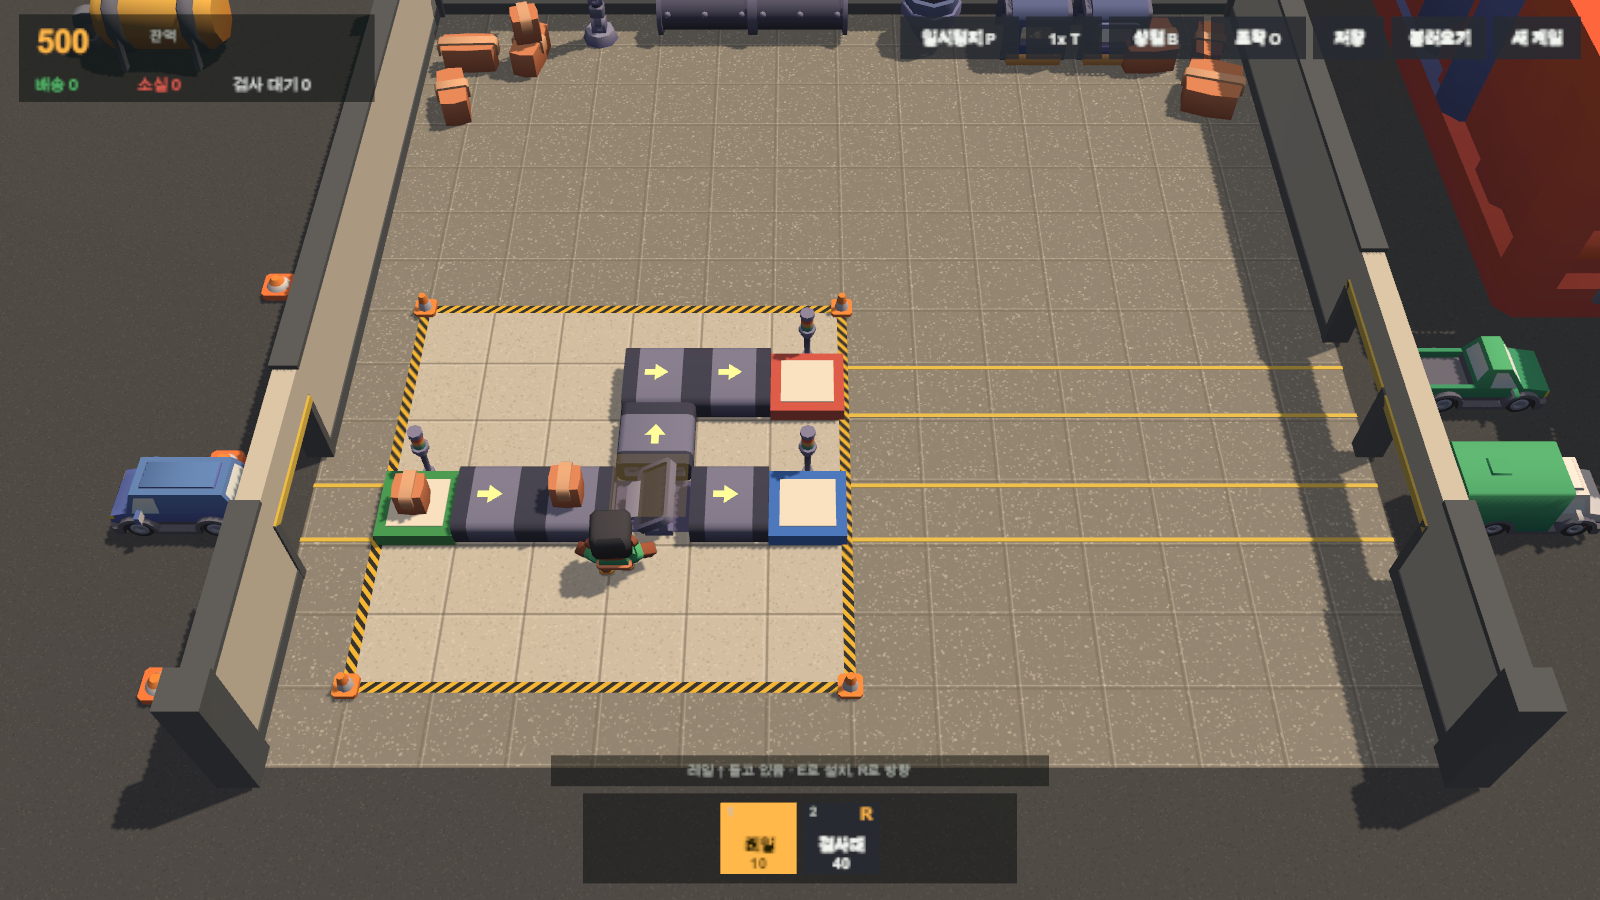
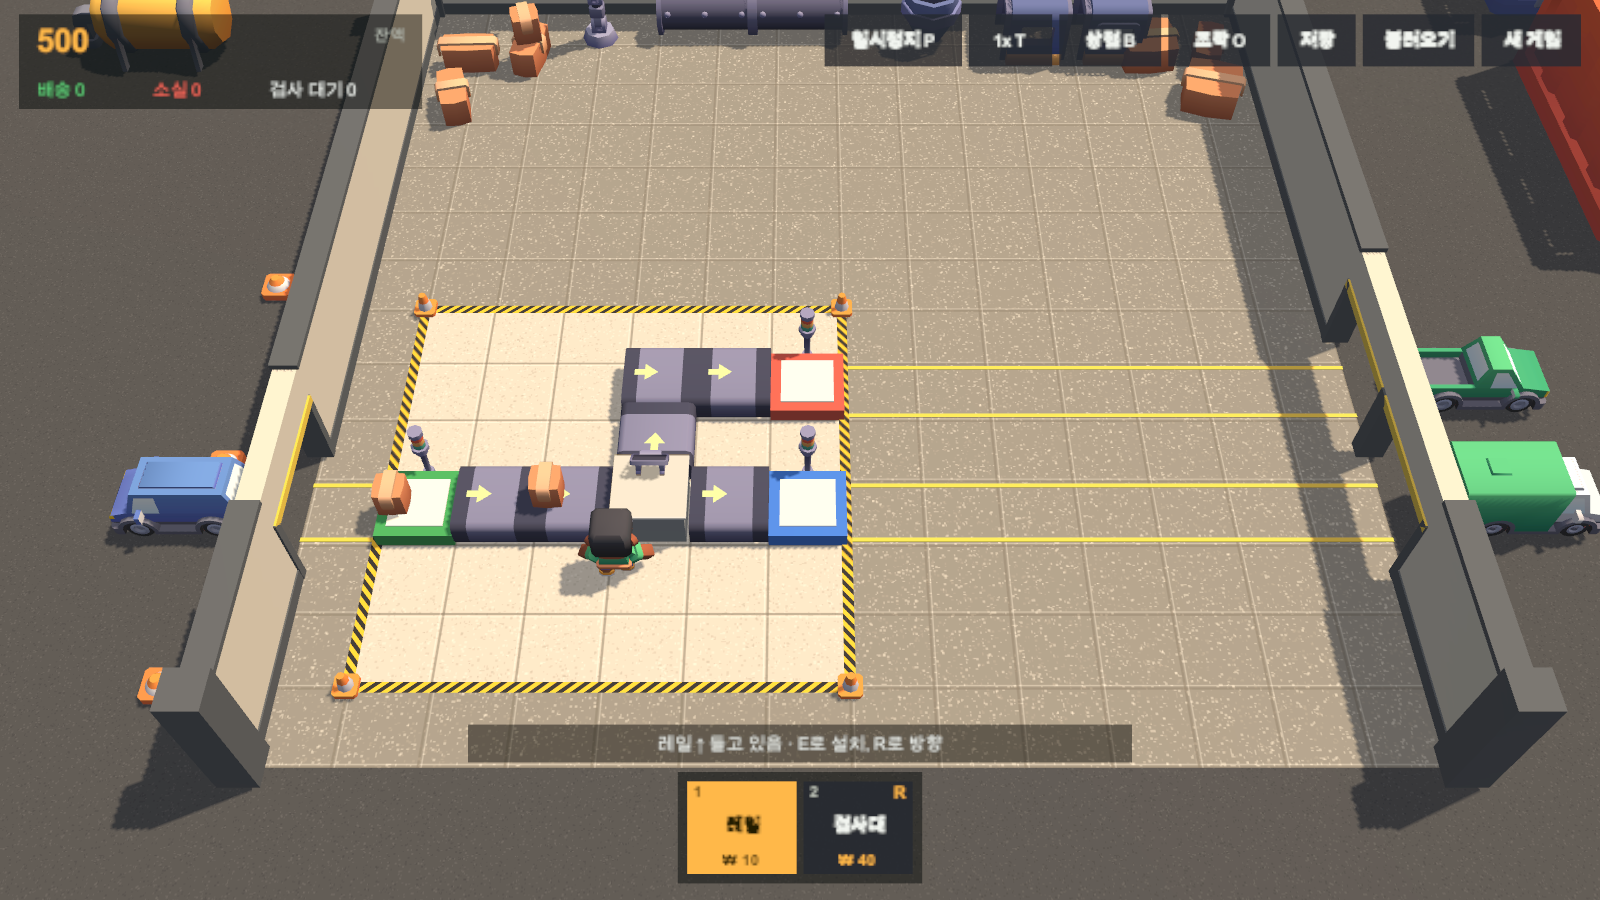
fix(game): brighter lighting, smaller yard props, larger HUD text, steel table view
- Sun 1.6, trilight sky/equator +40%
- Shipping containers (the props looming over the east wall, ~4x4x9 m at
  scale 3) shrunk to 1.6 and moved 4+ m off the wall; far buildings at
  scale 3.2, z 17.5, x -9/2/11
- HUD: status/counters/toast 16, top-right buttons 15 at 44 px height,
  hotbar slot 92x78 with name 15 and price on its own line, hotbar fits
  visible slots; UiKit.DefaultFont loads Resources/Fonts/NotoSansKR-Regular
  when present, else LegacyRuntime
- Table cell: steel body + light top at surface height 0.6 + small screen
- FrameLot uses Screen (or target RenderTexture) aspect; drop unused arrow
  catalog key and the playAutomatically line
- Screenshot harness logs yard prop bounds; renders regenerated

diff --git a/Assets/Scripts/Game/HudController.cs b/Assets/Scripts/Game/HudController.cs
@@ -17,6 +17,8 @@ namespace ParcelFactory.Game
         private RectTransform hotbar, prompt, toast, help, touchPad, touchButtons;
         private readonly List<Button> slotButtons = new List<Button>();
         private readonly List<Text> slotArrows = new List<Text>();
+        private readonly List<Text> slotPrices = new List<Text>();
+        private readonly List<Text> slotKeys = new List<Text>();
         private float toastUntil;
         private InputController input;
 
@@ -52,49 +54,61 @@ namespace ParcelFactory.Game
 
         private void BuildTopLeft()
         {
-            var box = UiKit.PanelBox("TopLeft", Root, new Vector2(0f, 1f), new Vector2(0f, 1f), new Vector2(0f, 1f), new Vector2(16f, -12f), new Vector2(300f, 74f));
+            var box = UiKit.PanelBox("TopLeft", Root, new Vector2(0f, 1f), new Vector2(0f, 1f), new Vector2(0f, 1f), new Vector2(16f, -12f), new Vector2(340f, 80f));
             money = UiKit.Label("Money", box.transform, "100", 28, UiKit.Accent, TextAnchor.UpperLeft, FontStyle.Bold);
             money.rectTransform.offsetMin = new Vector2(14f, 30f); money.rectTransform.offsetMax = new Vector2(-14f, -6f);
-            var lbl = UiKit.Label("MoneyLbl", box.transform, "잔액", 12, UiKit.Muted, TextAnchor.UpperLeft);
-            lbl.rectTransform.offsetMin = new Vector2(110f, 36f); lbl.rectTransform.offsetMax = new Vector2(-14f, -14f);
-            delivered = UiKit.Label("Delivered", box.transform, "배송 0", 13, UiKit.Good, TextAnchor.LowerLeft);
-            delivered.rectTransform.offsetMin = new Vector2(14f, 8f); delivered.rectTransform.offsetMax = new Vector2(-200f, -40f);
-            lost = UiKit.Label("Lost", box.transform, "소실 0", 13, UiKit.Bad, TextAnchor.LowerLeft);
-            lost.rectTransform.offsetMin = new Vector2(100f, 8f); lost.rectTransform.offsetMax = new Vector2(-120f, -40f);
-            waiting = UiKit.Label("Waiting", box.transform, "검사 대기 0", 13, UiKit.Fg, TextAnchor.LowerLeft);
-            waiting.rectTransform.offsetMin = new Vector2(180f, 8f); waiting.rectTransform.offsetMax = new Vector2(-10f, -40f);
+            var lbl = UiKit.Label("MoneyLbl", box.transform, "잔액", 14, UiKit.Muted, TextAnchor.UpperRight);
+            lbl.rectTransform.offsetMin = new Vector2(14f, 40f); lbl.rectTransform.offsetMax = new Vector2(-14f, -12f);
+            delivered = UiKit.Label("Delivered", box.transform, "배송 0", 16, UiKit.Good, TextAnchor.LowerLeft);
+            delivered.rectTransform.offsetMin = new Vector2(14f, 8f); delivered.rectTransform.offsetMax = new Vector2(-226f, -44f);
+            lost = UiKit.Label("Lost", box.transform, "소실 0", 16, UiKit.Bad, TextAnchor.LowerLeft);
+            lost.rectTransform.offsetMin = new Vector2(112f, 8f); lost.rectTransform.offsetMax = new Vector2(-128f, -44f);
+            waiting = UiKit.Label("Waiting", box.transform, "검사 대기 0", 16, UiKit.Fg, TextAnchor.LowerLeft);
+            waiting.rectTransform.offsetMin = new Vector2(210f, 8f); waiting.rectTransform.offsetMax = new Vector2(-8f, -44f);
         }
+
+        /// <summary>상단 버튼 높이. 터치 기준 최소 44px를 항상 지킨다.</summary>
+        private const float TopButtonHeight = 44f;
+        private const float SlotW = 92f, SlotH = 78f;
 
         private void BuildTopRight()
         {
-            var row = UiKit.Rect("TopRight", Root, new Vector2(1f, 1f), new Vector2(1f, 1f), new Vector2(1f, 1f), new Vector2(-16f, -12f), new Vector2(660f, 40f));
+            var row = UiKit.Rect("TopRight", Root, new Vector2(1f, 1f), new Vector2(1f, 1f), new Vector2(1f, 1f), new Vector2(-16f, -12f), new Vector2(720f, TopButtonHeight));
             UiKit.Row(row, 6f, new RectOffset(0, 0, 0, 0)).childAlignment = TextAnchor.MiddleRight;
             var boot = GameBootstrap.Instance;
-            pauseBtn = UiKit.Button("Pause", row, "일시정지 P", new Vector2(100f, 36f), () => boot.Session.Paused = !boot.Session.Paused);
-            speedBtn = UiKit.Button("Speed", row, "1x T", new Vector2(64f, 36f), () => boot.Session.Speed = boot.Session.Speed >= 2f ? 1f : 2f);
-            shopBtn = UiKit.Button("Shop", row, "상점 B", new Vector2(80f, 36f), () => { if (input.UiBlocksInput && !boot.Panels.ShopIsOnlyOpen) return; input.RequestShop(); });
-            helpBtn = UiKit.Button("Help", row, "조작 O", new Vector2(80f, 36f), () => SetHelp(!help.gameObject.activeSelf));
-            var saveBtn = UiKit.Button("Save", row, "저장", new Vector2(60f, 36f), () => Toast(SaveFile.TrySave(boot.Session, out var e1) ? "저장했습니다" : e1));
-            var loadBtn = UiKit.Button("Load", row, "불러오기", new Vector2(80f, 36f), () => { if (SaveFile.TryLoad(out var s2, out var e2)) { boot.ReplaceSession(s2); Toast("불러왔습니다"); } else Toast(e2); });
-            var newBtn = UiKit.Button("New", row, "새 게임", new Vector2(74f, 36f), () => { boot.StartNewGame(); Toast("새 게임"); });
-            foreach (var b in new[] { pauseBtn, speedBtn, shopBtn, helpBtn, saveBtn, loadBtn, newBtn }) UiKit.Size(b, b.GetComponent<RectTransform>().sizeDelta.x, 36f);
+            const float h = TopButtonHeight;
+            const int fs = 15;
+            pauseBtn = UiKit.Button("Pause", row, "일시정지 P", new Vector2(116f, h), () => boot.Session.Paused = !boot.Session.Paused, fontSize: fs);
+            speedBtn = UiKit.Button("Speed", row, "1x T", new Vector2(70f, h), () => boot.Session.Speed = boot.Session.Speed >= 2f ? 1f : 2f, fontSize: fs);
+            shopBtn = UiKit.Button("Shop", row, "상점 B", new Vector2(86f, h), () => { if (input.UiBlocksInput && !boot.Panels.ShopIsOnlyOpen) return; input.RequestShop(); }, fontSize: fs);
+            helpBtn = UiKit.Button("Help", row, "조작 O", new Vector2(86f, h), () => SetHelp(!help.gameObject.activeSelf), fontSize: fs);
+            var saveBtn = UiKit.Button("Save", row, "저장", new Vector2(66f, h), () => Toast(SaveFile.TrySave(boot.Session, out var e1) ? "저장했습니다" : e1), fontSize: fs);
+            var loadBtn = UiKit.Button("Load", row, "불러오기", new Vector2(94f, h), () => { if (SaveFile.TryLoad(out var s2, out var e2)) { boot.ReplaceSession(s2); Toast("불러왔습니다"); } else Toast(e2); }, fontSize: fs);
+            var newBtn = UiKit.Button("New", row, "새 게임", new Vector2(84f, h), () => { boot.StartNewGame(); Toast("새 게임"); }, fontSize: fs);
+            foreach (var b in new[] { pauseBtn, speedBtn, shopBtn, helpBtn, saveBtn, loadBtn, newBtn }) UiKit.Size(b, b.GetComponent<RectTransform>().sizeDelta.x, h);
         }
 
         private void BuildHotbar()
         {
-            hotbar = UiKit.PanelBox("Hotbar", Root, new Vector2(0.5f, 0f), new Vector2(0.5f, 0f), new Vector2(0.5f, 0f), new Vector2(0f, 14f), new Vector2(5 * 70f + 16f, 76f)).rectTransform;
+            hotbar = UiKit.PanelBox("Hotbar", Root, new Vector2(0.5f, 0f), new Vector2(0.5f, 0f), new Vector2(0.5f, 0f), new Vector2(0f, 14f), new Vector2(5 * (SlotW + 6f) - 6f + 16f, SlotH + 16f)).rectTransform;
             UiKit.Row(hotbar, 6f, new RectOffset(8, 8, 8, 8)).childAlignment = TextAnchor.MiddleCenter;
             for (int i = 0; i < 5; i++)
             {
                 int idx = i;
-                var b = UiKit.Button("Slot" + (i + 1), hotbar, "", new Vector2(64f, 60f), () => { if (input.UiBlocksInput) return; input.SelectSlot(idx); }, new Color(0f, 0f, 0f, 0.35f));
-                UiKit.Size(b, 64f, 60f);
-                var key = UiKit.Label("Key", b.transform, (i + 1).ToString(), 11, UiKit.Muted, TextAnchor.UpperLeft, FontStyle.Bold);
-                key.rectTransform.offsetMin = new Vector2(5f, 0f); key.rectTransform.offsetMax = new Vector2(0f, -3f);
+                var b = UiKit.Button("Slot" + (i + 1), hotbar, "", new Vector2(SlotW, SlotH), () => { if (input.UiBlocksInput) return; input.SelectSlot(idx); }, new Color(0f, 0f, 0f, 0.35f), fontSize: 15);
+                UiKit.Size(b, SlotW, SlotH);
+                // 이름(15)은 가운데, 가격은 그 아래 자기 줄, 키 번호·방향은 위쪽 모서리.
+                var name = b.GetComponentInChildren<Text>();
+                name.alignment = TextAnchor.MiddleCenter;
+                name.horizontalOverflow = HorizontalWrapMode.Overflow;
+                name.rectTransform.offsetMin = new Vector2(2f, 22f); name.rectTransform.offsetMax = new Vector2(-2f, -18f);
+                var price = UiKit.Label("Price", b.transform, "", 13, UiKit.Muted, TextAnchor.LowerCenter, FontStyle.Bold);
+                price.rectTransform.offsetMin = new Vector2(2f, 5f); price.rectTransform.offsetMax = new Vector2(-2f, -54f);
+                var key = UiKit.Label("Key", b.transform, (i + 1).ToString(), 13, UiKit.Muted, TextAnchor.UpperLeft, FontStyle.Bold);
+                key.rectTransform.offsetMin = new Vector2(6f, 0f); key.rectTransform.offsetMax = new Vector2(0f, -3f);
                 var arrow = UiKit.Label("Arrow", b.transform, "", 16, UiKit.Accent, TextAnchor.UpperRight, FontStyle.Bold);
-                arrow.rectTransform.offsetMin = new Vector2(0f, 0f); arrow.rectTransform.offsetMax = new Vector2(-5f, -2f);
-                b.GetComponentInChildren<Text>().alignment = TextAnchor.LowerCenter;
-                slotButtons.Add(b); slotArrows.Add(arrow);
+                arrow.rectTransform.offsetMin = new Vector2(0f, 0f); arrow.rectTransform.offsetMax = new Vector2(-6f, -2f);
+                slotButtons.Add(b); slotArrows.Add(arrow); slotPrices.Add(price); slotKeys.Add(key);
             }
         }
 
@@ -107,14 +121,14 @@ namespace ParcelFactory.Game
 
         private void BuildStatus()
         {
-            var box = UiKit.PanelBox("Status", Root, new Vector2(0.5f, 0f), new Vector2(0.5f, 0f), new Vector2(0.5f, 0f), new Vector2(0f, 96f), new Vector2(420f, 26f));
-            workerText = UiKit.Label("Text", box.transform, "", 12, UiKit.Muted, TextAnchor.MiddleCenter);
+            var box = UiKit.PanelBox("Status", Root, new Vector2(0.5f, 0f), new Vector2(0.5f, 0f), new Vector2(0.5f, 0f), new Vector2(0f, SlotH + 16f + 14f + 8f), new Vector2(560f, 32f));
+            workerText = UiKit.Label("Text", box.transform, "", 16, UiKit.Fg, TextAnchor.MiddleCenter);
         }
 
         private void BuildToast()
         {
-            toast = UiKit.PanelBox("Toast", Root, new Vector2(0.5f, 1f), new Vector2(0.5f, 1f), new Vector2(0.5f, 1f), new Vector2(0f, -110f), new Vector2(360f, 34f), UiKit.Panel2).rectTransform;
-            toastText = UiKit.Label("Text", toast, "", 14, UiKit.Fg, TextAnchor.MiddleCenter);
+            toast = UiKit.PanelBox("Toast", Root, new Vector2(0.5f, 1f), new Vector2(0.5f, 1f), new Vector2(0.5f, 1f), new Vector2(0f, -110f), new Vector2(440f, 40f), UiKit.Panel2).rectTransform;
+            toastText = UiKit.Label("Text", toast, "", 16, UiKit.Fg, TextAnchor.MiddleCenter);
             toast.gameObject.SetActive(false);
         }
 
@@ -183,15 +197,20 @@ namespace ParcelFactory.Game
         public void RefreshHotbar()
         {
             var slots = input.AvailableSlots();
+            int shown = Mathf.Clamp(slots.Count, 1, slotButtons.Count);
+            hotbar.sizeDelta = new Vector2(shown * (SlotW + 6f) - 6f + 16f, SlotH + 16f); // 보이는 칸 수에 맞춘다
             for (int i = 0; i < slotButtons.Count; i++)
             {
                 bool has = i < slots.Count;
                 slotButtons[i].gameObject.SetActive(has);
                 if (!has) continue;
                 var type = slots[i];
-                slotButtons[i].GetComponentInChildren<Text>().text = Name(type) + "\n" + BuildingCosts.Cost(type);
+                slotButtons[i].GetComponentInChildren<Text>().text = Name(type);
+                slotPrices[i].text = "₩ " + BuildingCosts.Cost(type);
                 bool on = input.SelectedSlot == i && input.SelectedTool.HasValue;
                 UiKit.SetButtonLook(slotButtons[i], on);
+                slotPrices[i].color = on ? UiKit.AccentFg : UiKit.Accent;
+                slotKeys[i].color = on ? UiKit.AccentFg : UiKit.Muted;
                 slotArrows[i].text = on ? Arrow(input.SelectedTool.Value.Direction) : (input.OwnedDirections(type).Count > 1 ? "R" : Arrow(input.OwnedDirections(type)[0]));
             }
         }

diff --git a/Assets/Scripts/Game/WorldBuilder.cs b/Assets/Scripts/Game/WorldBuilder.cs
@@ -129,19 +129,19 @@ namespace ParcelFactory.Game
             var sun = sunGo.AddComponent<Light>();
             sun.type = LightType.Directional;
             sun.color = Hex(0xFFE6C2);
-            sun.intensity = 1.05f;
+            sun.intensity = 1.6f;
             sun.shadows = LightShadows.Soft;
             sun.shadowStrength = 0.85f;
             // 프로토타입 태양 위치 (−9, 17, 4)를 Unity x로 뒤집은 (9, 17, 4)에서 원점을 비춘다.
             sunGo.transform.rotation = Quaternion.LookRotation(-new Vector3(9f, 17f, 4f).normalized, Vector3.up);
 
-            // 반구광 근사: 하늘 #DFE7F2, 지면 #6B655C, 세기 0.55
-            const float hemi = 0.55f;
+            // 반구광 근사: 하늘 #DFE7F2, 지면 #6B655C, 세기 0.55. URP가 three.js보다 어두워 하늘·적도는 40% 올린다.
+            const float hemi = 0.55f, lift = 1.4f;
             var sky = Hex(0xDFE7F2) * hemi;
             var gnd = Hex(0x6B655C) * hemi;
             RenderSettings.ambientMode = AmbientMode.Trilight;
-            RenderSettings.ambientSkyColor = sky;
-            RenderSettings.ambientEquatorColor = Color.Lerp(sky, gnd, 0.5f);
+            RenderSettings.ambientSkyColor = sky * lift;
+            RenderSettings.ambientEquatorColor = Color.Lerp(sky, gnd, 0.5f) * lift;
             RenderSettings.ambientGroundColor = gnd;
             RenderSettings.fog = true;
             RenderSettings.fogMode = FogMode.Linear;
@@ -258,15 +258,17 @@ namespace ParcelFactory.Game
         private void BuildYard()
         {
             var yard = Group("Yard");
-            Spawn("shipping-container-a", new Vector3(11.5f, 0f, 4.0f), Quaternion.identity, 3.0f, yard);
-            Spawn("shipping-container-b", new Vector3(11.5f, 0f, 7.5f), Quaternion.identity, 3.0f, yard);
-            Spawn("shipping-container-c", new Vector3(13.2f, 0f, 1.2f), Quaternion.Euler(0f, 5f, 0f), 3.0f, yard);
+            // 컨테이너 FBX는 1배에서 약 1.4×1.3×3.0m다. 1.6배(≈2.2×2.1×4.9m)로 두고 동쪽 벽(+7)에서 4m 이상 띄운다.
+            Spawn("shipping-container-a", new Vector3(12.5f, 0f, 3.5f), Quaternion.identity, 1.6f, yard);
+            Spawn("shipping-container-b", new Vector3(12.5f, 0f, 9.0f), Quaternion.identity, 1.6f, yard);
+            Spawn("shipping-container-c", new Vector3(15.0f, 0f, 0.5f), Quaternion.Euler(0f, 5f, 0f), 1.6f, yard);
             Spawn("water-tower", new Vector3(-10.5f, 0f, 9.5f), Quaternion.identity, 2.6f, yard);
             Spawn("detail-tank", new Vector3(-11.5f, 0f, 6.0f), Quaternion.identity, 3.0f, yard);
             Spawn("chimney-medium", new Vector3(9.0f, 0f, 10.5f), Quaternion.identity, 2.6f, yard);
-            Spawn("building-a", new Vector3(2.0f, 0f, 13.5f), Quaternion.identity, 5f, yard);
-            Spawn("building-c", new Vector3(-8.0f, 0f, 14.2f), Quaternion.identity, 5f, yard);
-            Spawn("building-h", new Vector3(10.0f, 0f, 14.0f), Quaternion.identity, 5f, yard);
+            // 멀리 보이는 공장 건물 실루엣: 건물 벽(±7)에서 충분히 떨어뜨린다.
+            Spawn("building-c", new Vector3(-9.0f, 0f, 17.5f), Quaternion.identity, 3.2f, yard);
+            Spawn("building-a", new Vector3(2.0f, 0f, 17.5f), Quaternion.identity, 3.2f, yard);
+            Spawn("building-h", new Vector3(11.0f, 0f, 17.5f), Quaternion.identity, 3.2f, yard);
             foreach (var z in new[] { -6f, -2.8f, 0.4f })
                 Spawn("cone-flat", new Vector3(-8.2f, 0f, z), Quaternion.identity, 0.9f, yard);
         }
@@ -340,7 +342,10 @@ namespace ParcelFactory.Game
             framedW = Screen.width;
             framedH = Screen.height;
             float t = Mathf.Tan(CameraFov * 0.5f * Mathf.Deg2Rad);
-            float a = MainCamera.aspect > 0.01f ? MainCamera.aspect : 1f;
+            // 화면 비율. 카메라가 RenderTexture에 그리는 동안(스크린샷 하네스)에는 그 텍스처 비율을 쓴다.
+            var rt = MainCamera.targetTexture;
+            float a = rt != null ? (float)rt.width / rt.height : (float)Screen.width / Mathf.Max(1, Screen.height);
+            if (a < 0.01f) a = 1f;
             float hw = n / 2f + 5f, hv = n / 2f + 2.8f;
             float dist = Mathf.Max(hw / (t * a), hv / t) * 1.04f;
             var c = Grid3D.TileF((n - 1) / 2f, (n - 1) / 2f);

diff --git a/Assets/Scripts/Game/CellViews.cs b/Assets/Scripts/Game/CellViews.cs
@@ -117,6 +117,18 @@ namespace ParcelFactory.Game
             return m;
         }
 
+        private static GameObject Box(string name, Transform parent, Vector3 localPos, Vector3 size, Material mat)
+        {
+            var b = GameObject.CreatePrimitive(PrimitiveType.Cube);
+            b.name = name;
+            Destroy(b.GetComponent<Collider>());
+            b.transform.SetParent(parent, false);
+            b.transform.localPosition = localPos;
+            b.transform.localScale = size;
+            b.GetComponent<Renderer>().sharedMaterial = mat;
+            return b;
+        }
+
         private GameObject Make(Cell c)
         {
             if (!c.IsBuilding) return null;
@@ -163,9 +175,16 @@ namespace ParcelFactory.Game
                     Model("conveyor-junction-t", go.transform, Vector3.zero, facing, 1f);
                     break;
                 case CellType.Table:
-                    Model("floor", go.transform, Vector3.zero, Quaternion.identity, 1f);
-                    Model("screen-panel-flat", go.transform, Vector3.zero, facing, 0.8f);
+                {
+                    // 강철 작업대: 몸체 0.9×0.56×0.9 + 밝은 상판 0.96×0.04×0.96, 윗면 = 택배 표면 높이(0.6).
+                    float top = PackageViews.SurfaceHeight(CellType.Table);
+                    Box("TableBody", go.transform, new Vector3(0f, (top - 0.04f) / 2f, 0f), new Vector3(0.9f, top - 0.04f, 0.9f), MaterialLibrary.Lit(new Color(0x8E / 255f, 0x94 / 255f, 0x9B / 255f), 0.3f));
+                    Box("TableTop", go.transform, new Vector3(0f, top - 0.02f, 0f), new Vector3(0.96f, 0.04f, 0.96f), MaterialLibrary.Lit(new Color(0xC9 / 255f, 0xCD / 255f, 0xD2 / 255f), 0.35f));
+                    // 검사 화면: 상판 뒤쪽(북쪽) 가장자리에 카메라를 향해 세운다. 택배를 가리지 않도록 작게.
+                    var panel = Model("screen-panel-flat", go.transform, new Vector3(0f, top, 0.3f), Quaternion.Euler(0f, 180f, 0f), 0.4f);
+                    panel.name = "TableScreen";
                     break;
+                }
             }
             return go;
         }

diff --git a/Assets/Editor/CatalogBuilder.cs b/Assets/Editor/CatalogBuilder.cs
@@ -14,7 +14,7 @@ namespace ParcelFactory.EditorTools
         private const string Root = "Assets/ThirdParty/Kenney/";
         private static readonly (string kit, string[] names)[] Wanted =
         {
-            ("factory-kit", new[] { "conveyor", "conveyor-stripe", "conveyor-corner", "conveyor-junction-t", "scanner-low", "box-small", "box-large", "box-wide", "box-long", "screen-panel-flat", "floor", "floor-large", "structure-wall", "structure-window-wide", "structure-doorway-wide", "warning-traffic", "arrow", "cone", "machine", "machine-window", "hopper-round", "pipe-large-long", "robot-arm-a", "screen-hanging-wide", "indicator-special-area" }),
+            ("factory-kit", new[] { "conveyor", "conveyor-stripe", "conveyor-corner", "conveyor-junction-t", "scanner-low", "box-small", "box-large", "box-wide", "box-long", "screen-panel-flat", "floor", "floor-large", "structure-wall", "structure-window-wide", "structure-doorway-wide", "warning-traffic", "cone", "machine", "machine-window", "hopper-round", "pipe-large-long", "robot-arm-a", "screen-hanging-wide", "indicator-special-area" }),
             ("city-kit-industrial", new[] { "shipping-container-a", "shipping-container-b", "shipping-container-c", "water-tower", "chimney-medium", "building-a", "building-c", "building-h", "detail-tank" }),
             ("car-kit", new[] { "delivery", "truck", "truck-flat", "van", "box", "cone-flat" }),
             ("mini-characters", new[] { "character-male-a", "character-male-b", "character-female-a", "character-female-b" }),

diff --git a/Assets/Tests/Game/ScreenshotTests.cs b/Assets/Tests/Game/ScreenshotTests.cs
@@ -40,6 +40,15 @@ namespace ParcelFactory.Game.Tests
                 yield return null;
                 yield return new WaitForSeconds(1.0f);
                 Debug.Log($"[Screenshot] booted, loop ticks {boot.Loop.Ticks}");
+                var yard = GameObject.Find("World/Yard");
+                if (yard != null)
+                    foreach (Transform t in yard.transform)
+                    {
+                        var rs = t.GetComponentsInChildren<Renderer>();
+                        if (rs.Length == 0) continue;
+                        var b = rs[0].bounds; foreach (var r in rs) b.Encapsulate(r.bounds);
+                        Debug.Log($"[Screenshot] yard {t.name} center {b.center:F1} size {b.size:F1}");
+                    }
 
                 // 참고용: 화면 버퍼 캡처가 배치 모드에서 동작하는지 기록만 한다(결과물로 쓰지 않는다).
                 string probe = Path.Combine(Path.GetTempPath(), "pf-screencapture-probe.png");

diff --git a/Assets/Scripts/Game/UiKit.cs b/Assets/Scripts/Game/UiKit.cs
@@ -17,7 +17,19 @@ namespace ParcelFactory.Game
         public static readonly Color Good = new Color(0.37f, 0.83f, 0.48f);
         public static readonly Color Bad = new Color(1f, 0.42f, 0.36f);
 
-        public static Font DefaultFont => Resources.GetBuiltinResource<Font>("LegacyRuntime.ttf");
+        /// <summary>Resources 아래 UI 폰트 경로(Noto Sans KR, SIL OFL). 파일이 없으면 Unity 내장 LegacyRuntime으로 대신한다.</summary>
+        public const string FontResourcePath = "Fonts/NotoSansKR-Regular";
+        private static Font font;
+
+        public static Font DefaultFont
+        {
+            get
+            {
+                if (font == null) font = Resources.Load<Font>(FontResourcePath);
+                if (font == null) font = Resources.GetBuiltinResource<Font>("LegacyRuntime.ttf");
+                return font;
+            }
+        }
 
         public static Canvas MakeCanvas()
         {

diff --git a/Assets/Scripts/Game/WorkerView.cs b/Assets/Scripts/Game/WorkerView.cs
@@ -65,7 +65,6 @@ namespace ParcelFactory.Game
                 st.wrapMode = WrapMode.Loop;
                 st.speed = n == WalkClip ? 1.6f : 1f;
             }
-            anim.playAutomatically = false;
             anim.Play(IdleClip);
             currentClip = IdleClip;
         }
